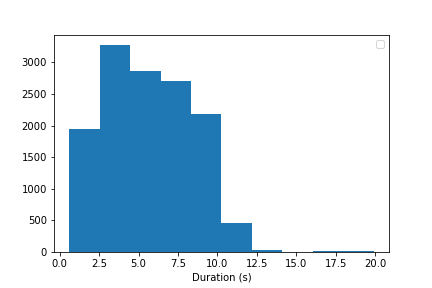
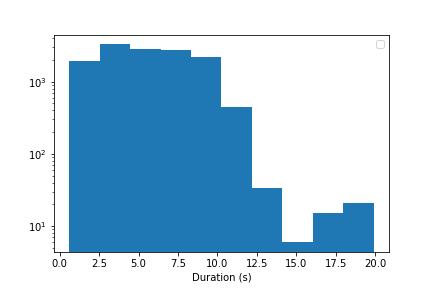
Added to the README

diff --git a/README.md b/README.md
@@ -318,3 +318,29 @@ This repeated splitting took some time, about 7h. Still some files were patholog
 We can see that we get a lot of files that are too short to process, and a few longer files, that are still long enough to go in the model without any problems.
 
 The files can now be split and passed to the classifier.
+
+
+Meeting notes:
+* When evaluating: use larger batches, because we now have smaller data instances
+* Word starts and word ends need not be preserved, maybe keep them for diagnostics
+* When able, publish the current model on HF MH. Put it directly to CLASSLA, make it public.
+* Next week: VM is reserved for us, retrain a new model on new dataset.
+* Tomorrow: meeting at 13? TBC
+* Nuance?, iPhone dictation tech, can we compare it to ur model?
+
+# Addendum 2021-12-17T15:45:12
+
+The splitting is done, on all chunks transcription has been performed.
+
+After splitting, the split files have the following duration distribution:
+
+![](images/durations_after_splitting.png)
+
+First words in the transcription start at different times. The distribution looks like this:
+
+![](images/first_word_start_position.png)
+
+~~This is worrying, because we might have split some words in the middle if the pauses are not long enough. Some of these instances will be checked to ascertain the danger of this happening.~~
+This was worrying, but after I used logarithmically spaced bins and not linearly spaced ones, I think the processed files being cut in the middle of the word is not such a wide spread problem.
+
+Another problem lies with two files for which the model was not able to transcribe anything at all. These instances will also be checked.
